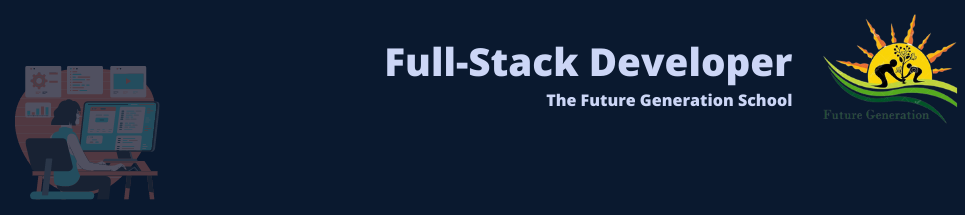
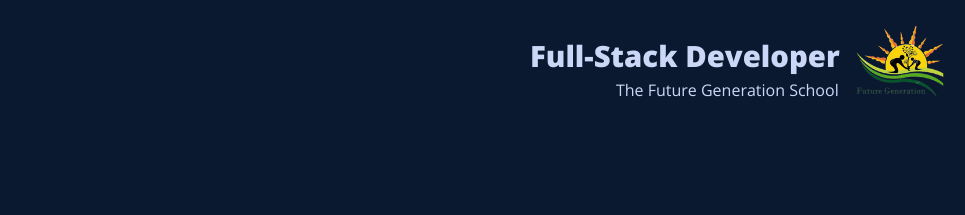
CSS Grid images + header

Changed region(s): [[0.4041, 0.0837, 0.9948, 0.5581], [0.0, 0.307, 0.1865, 0.9488]]

diff --git a/styleIndex.css b/styleIndex.css
@@ -202,12 +202,11 @@ h2{
   font-family: Calibre, "San Francisco", "SF Pro Text", sans-serif;
   font-style: normal;
   font-weight: bold;
-  font-size: 70.8px;
+  font-size: 18px;
   line-height: 00px;
   position: absolute;
-  top: 800px;
-  left: 100px;
-
+  top: 820px;
+  left: 75px;
   color:#CCD6F6;
 }
 h7 {
@@ -278,13 +277,7 @@ p3{
   width: 50px;
 }
 
-h2{
-  font-family: "verdana";
-  font-style: normal;
-  font-weight: normal;
-  font-size: 15px;
-  line-height: 4px;
-}
+
 
 a{
   font-family: "verdana";
@@ -315,6 +308,11 @@ h1 {
   font-size: 25px;
 
 }
+span:after,
+span:before{
+    content:"\00a0\00a0\00a0\00a0\00a0";
+    text-decoration:line-through;
+}
 /* Style CSS grid*/
 .wrapper{
   padding-top: 150px;
@@ -342,7 +340,7 @@ h1 {
 }
 
 .box2{
-  background-image: url("img/tfg.jpg");
+  background-image: url("img/trillium.png");
   grid-column:3;
   grid-row:1/5;
   border-radius: 50px 15px 15px 50px;
@@ -350,6 +348,7 @@ h1 {
 }
 
 .box3{
+  background-image: url("img/netact.png");
   grid-column:2/3;
   grid-row:3/5;
   border-radius: 50px 50px 15px 15px;
@@ -357,15 +356,16 @@ h1 {
 }
 
 .box4{
+  background-image: url("img/stem.png");
   grid-column:1;
   grid-row:3/5;
   border-radius: 15px 50px 15px 15px;
   border: 2px solid #64FFDA;
 }
 .box1:hover, .box2:hover, .box3:hover, .box4:hover {
-  background-color: #caece4e1;
+  background-color: #CCD6F6;
   transition: 0.25s ease-in-out;
-  border: 1px solid white;
+  border: 1px solid #CCD6F6;
   cursor: pointer;
 }
 

diff --git a/index.html b/index.html
@@ -62,11 +62,12 @@
 	</div>
 	
 <div id ="projects" class="wrapper">
-	<h2><span> 02. What I'm working on right now</span></h2>
+	<h2> <span>02. What I'm working on right now<span></span></span><span></span><span></span><span></span><span></span><span></span><span></span><span></span><span></span><span></span><span></span><span></span><span></span><span></span><span></span><span></span><span></span><span></span><span></span>
+	</h2>
 		<div class="box box1" href = "education.html"> </div>
 		<div class="box box2" href = "thefuturegenerationschool.com"></div>
-		<div class="box box3" href = "involvement.html">Involvement</div>
-		<div class="box box4" href = "contactme.html">Contact me</div>   
+		<div class="box box3" href = "involvement.html"></div>
+		<div class="box box4" href = "contactme.html"></div>   
 	</div>
 
 <div id="contactme">
